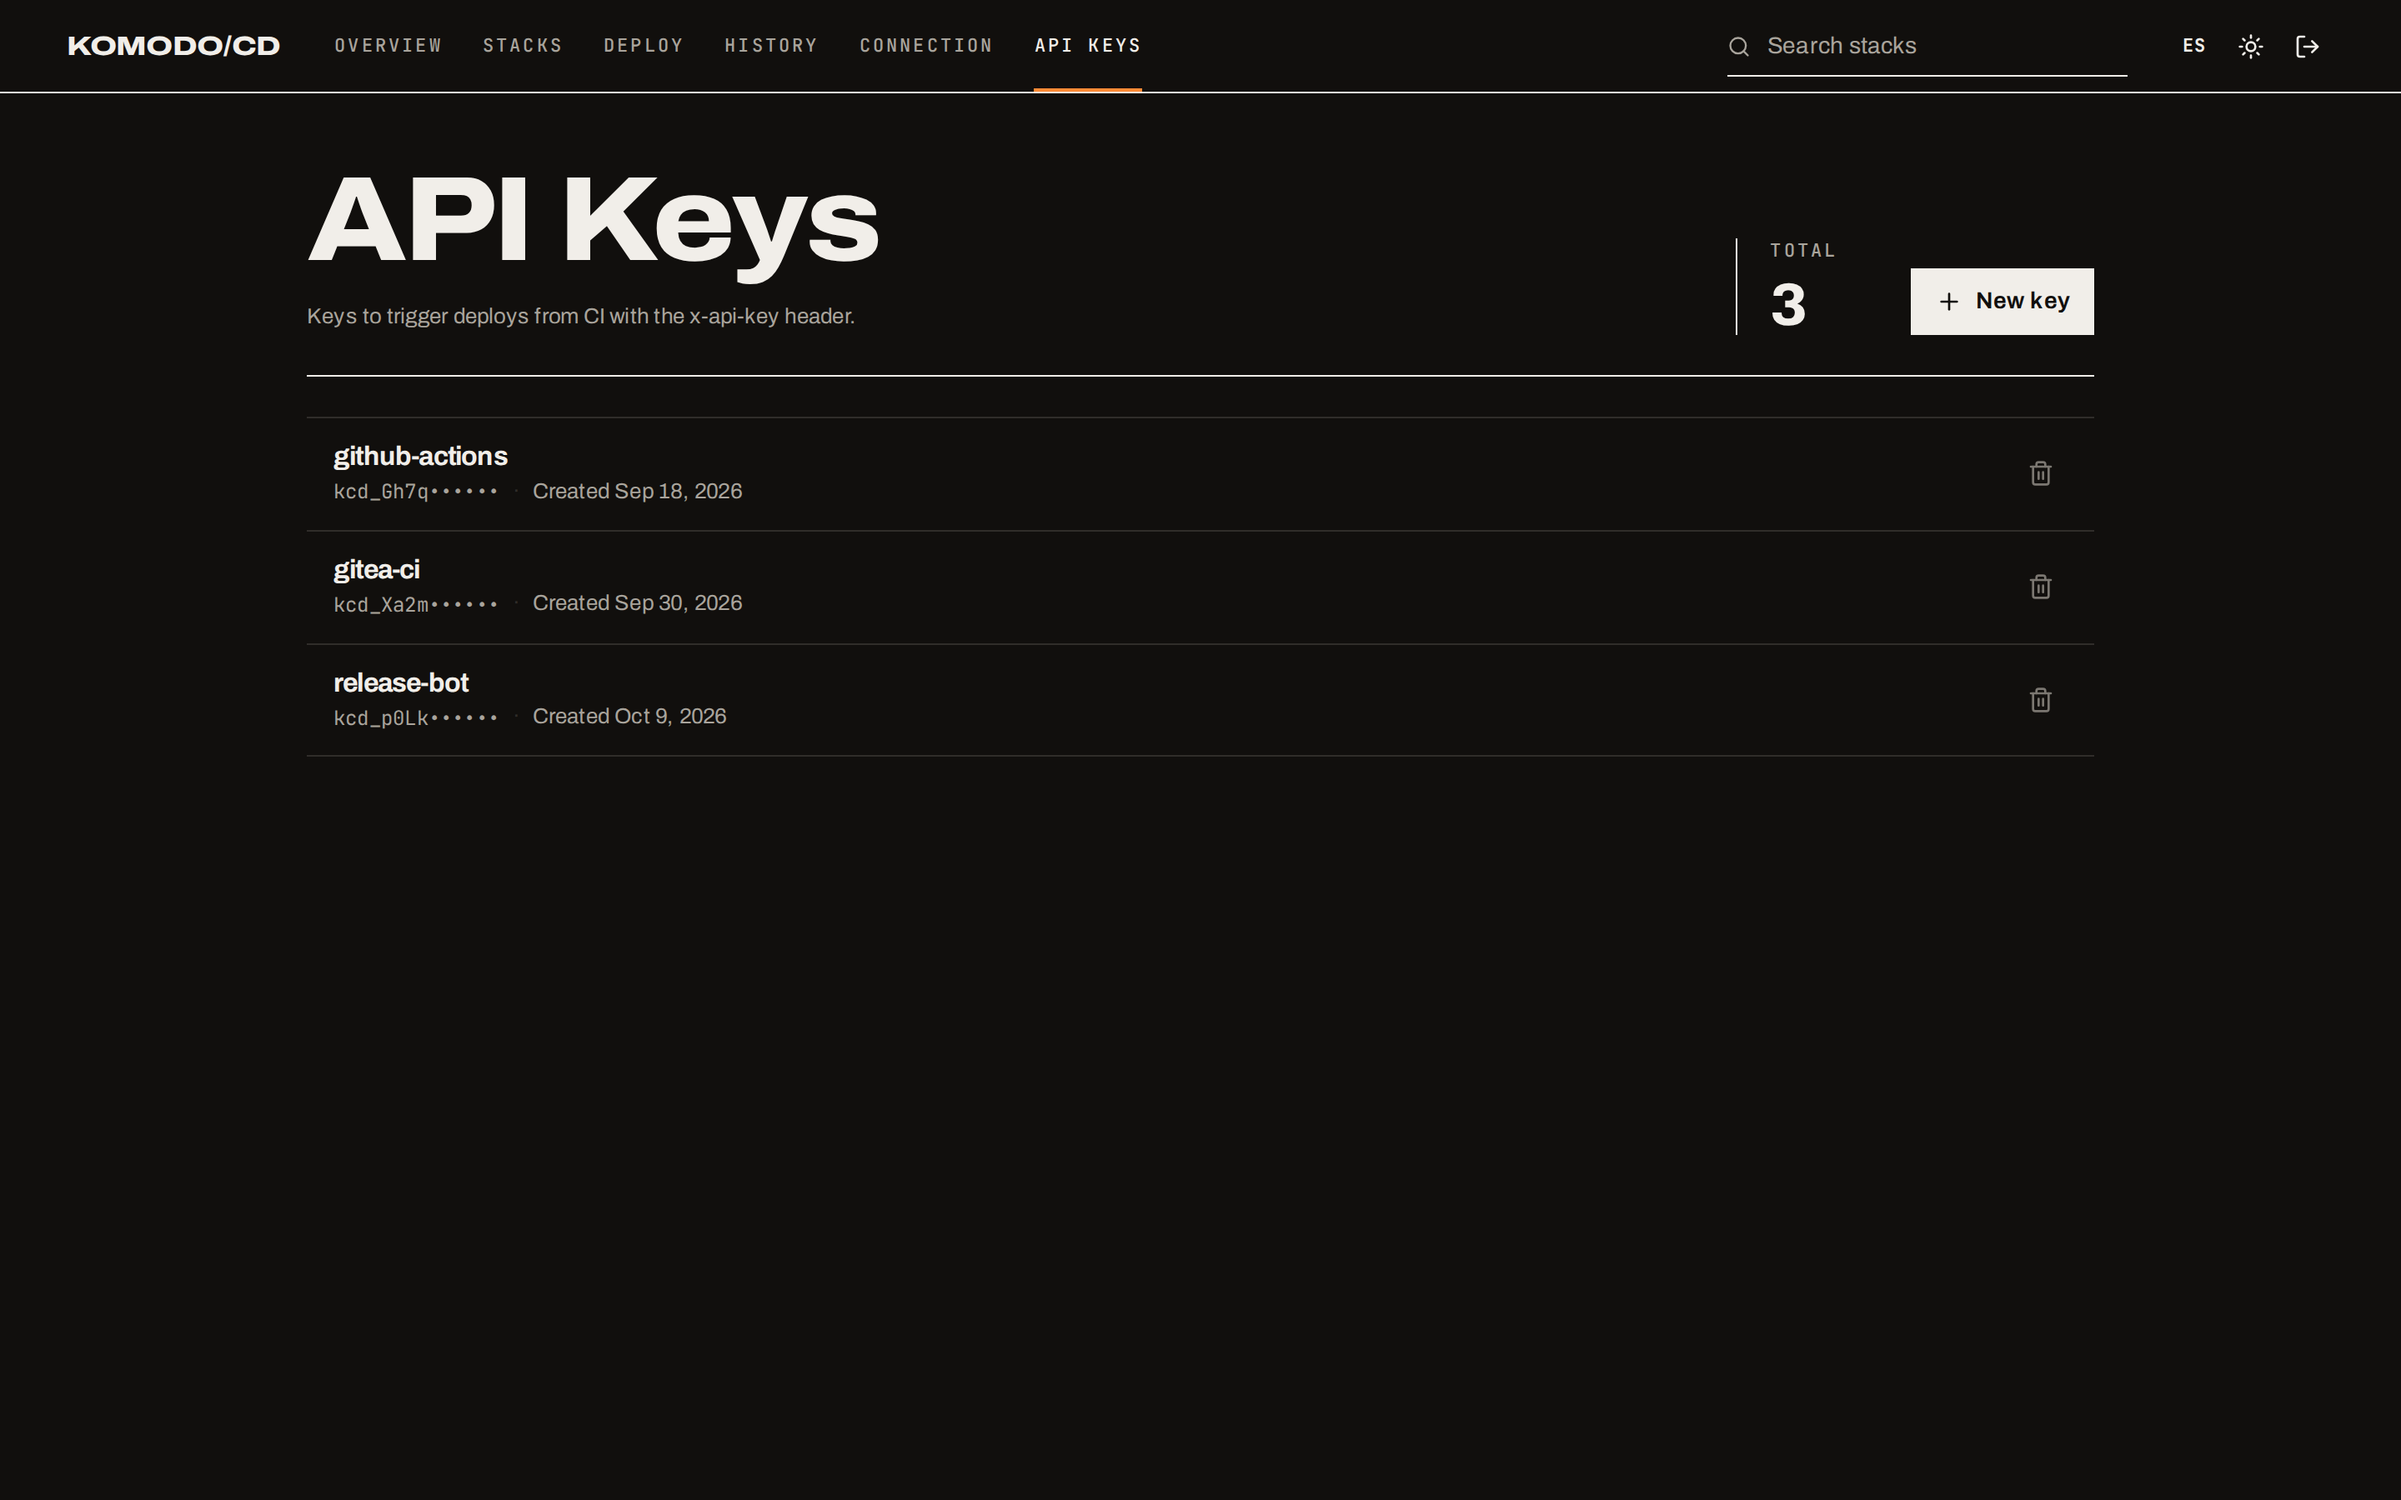
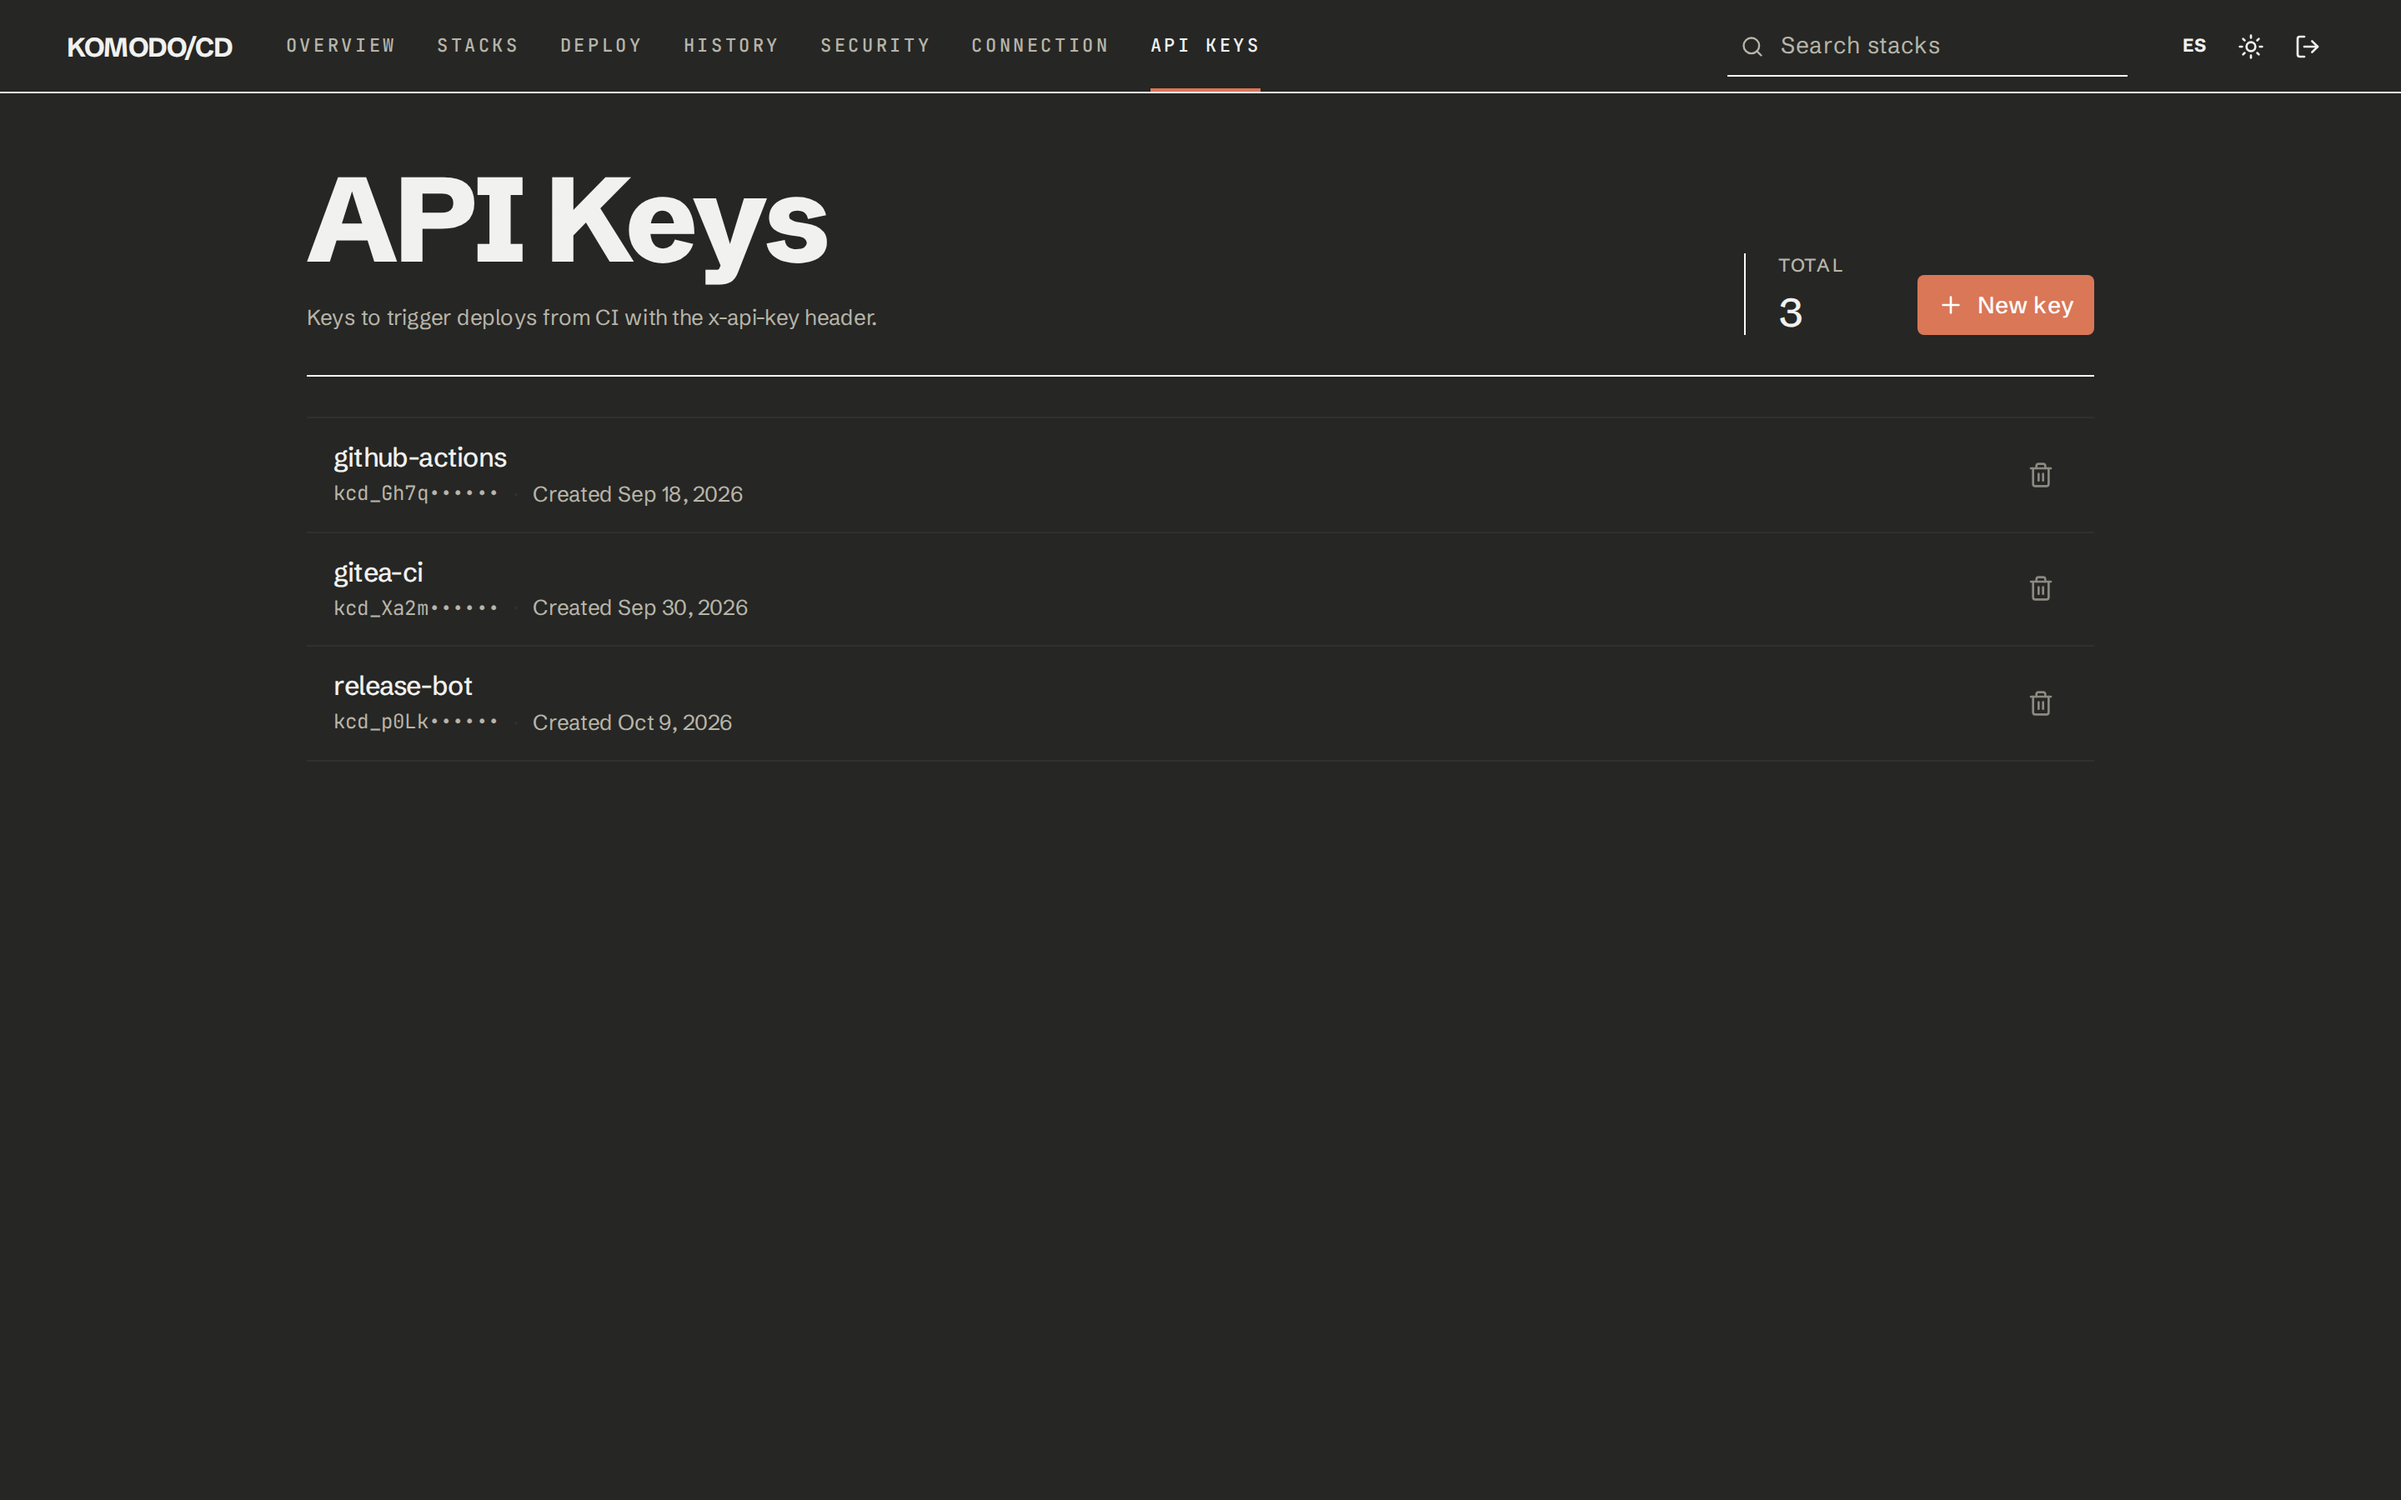
docs(readme): retake the screenshots with the new overview and the security page, and list trivy and the gateway image

diff --git a/README.md b/README.md
@@ -31,12 +31,13 @@ same actions from CI with an API key.
 
 Monorepo (Turborepo + Bun workspaces), plus the production deployment using images published on GHCR.
 
-|              | Path                             | Stack                                          |
-| ------------ | -------------------------------- | ---------------------------------------------- |
-| **Backend**  | [`apps/backend`](apps/backend)   | Bun + Hono (thin server: auth, oRPC, OpenAPI)  |
-| **Frontend** | [`apps/frontend`](apps/frontend) | Astro 7 (SSR) + React + TanStack Query         |
-| **Gateway**  | [`apps/gateway`](apps/gateway)   | Caddy: the only published port, routes to both |
-| **Site**     | [`apps/site`](apps/site)         | Astro 7 (static), published to GitHub Pages    |
+|              | Path                             | Stack                                                              |
+| ------------ | -------------------------------- | ------------------------------------------------------------------ |
+| **Backend**  | [`apps/backend`](apps/backend)   | Bun + Hono (thin server: auth, oRPC, OpenAPI)                      |
+| **Frontend** | [`apps/frontend`](apps/frontend) | Astro 7 (SSR) + React + TanStack Query                             |
+| **Gateway**  | [`apps/gateway`](apps/gateway)   | Caddy: the only published port, routes to both                     |
+| **Site**     | [`apps/site`](apps/site)         | Astro 7 (static), published to GitHub Pages                        |
+| **Trivy**    | `trivy` service in `compose.yml` | Upstream `aquasec/trivy` server for the image scans (no workspace) |
 
 | Package             | Description                                                      |
 | ------------------- | ---------------------------------------------------------------- |
@@ -53,13 +54,15 @@ Monorepo (Turborepo + Bun workspaces), plus the production deployment using imag
 | ------------------------- | ------------------------- |
 | ![Stacks](img/stacks.png) | ![Deploy](img/deploy.png) |
 
-| History                     | Connection                        |
-| --------------------------- | --------------------------------- |
-| ![History](img/history.png) | ![Connection](img/connection.png) |
+| History                     | Security                      |
+| --------------------------- | ----------------------------- |
+| ![History](img/history.png) | ![Security](img/security.png) |
 
-| API keys                      | Light theme                                  |
-| ----------------------------- | -------------------------------------------- |
-| ![API keys](img/api-keys.png) | ![Stacks, light theme](img/stacks-light.png) |
+| Connection                        | API keys                      |
+| --------------------------------- | ----------------------------- |
+| ![Connection](img/connection.png) | ![API keys](img/api-keys.png) |
+
+![Stacks, light theme](img/stacks-light.png)
 
 The screenshots use made-up stacks and URLs.
 
@@ -366,14 +369,17 @@ The Dockerfiles live in `apps/*/Dockerfile` but the build context is always the 
 ```bash
 docker build -f apps/backend/Dockerfile -t komodo-cd-backend .
 docker build -f apps/frontend/Dockerfile -t komodo-cd-frontend .
+docker build -f apps/gateway/Dockerfile -t komodo-cd-gateway .
 ```
 
-`.github/workflows/docker-build.yml` builds and pushes both images to `ghcr.io/nonetss/komodo-cd-backend` and `ghcr.io/nonetss/komodo-cd-frontend`:
+`.github/workflows/docker-build.yml` builds and pushes the three images to `ghcr.io/nonetss/komodo-cd-backend`, `ghcr.io/nonetss/komodo-cd-frontend` and `ghcr.io/nonetss/komodo-cd-gateway`, rebuilding only the ones whose files changed:
 
 | Trigger           | Tags                                   |
 | ----------------- | -------------------------------------- |
 | Push to `main`    | `latest`, `main`, `main-<sha>`         |
 | Tag `vX.Y.Z`      | `X.Y.Z`, `X.Y`                         |
+
+The `trivy` service is not built here: it runs the upstream `aquasec/trivy` image, at the same version as `TRIVY_VERSION` in `apps/backend/Dockerfile`.
 
 To publish a release, tag the commit and create the GitHub release:
 
